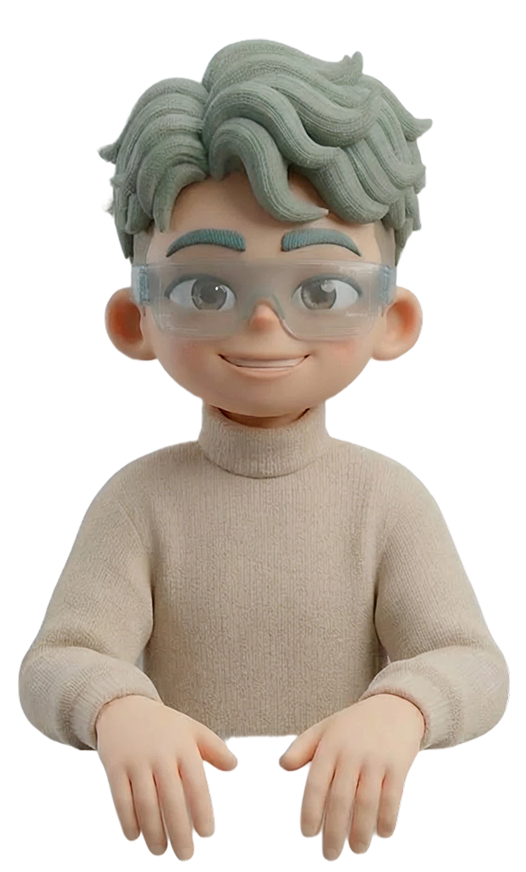
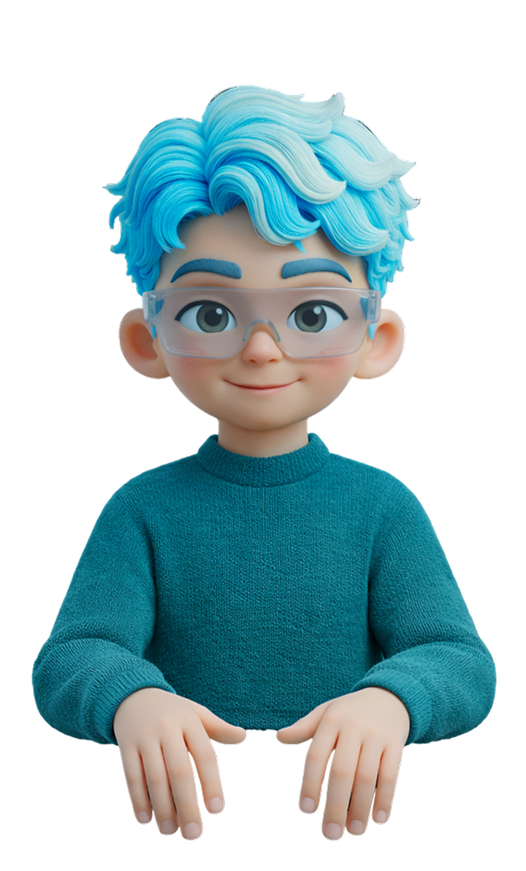
feat(landing): add mascot image to hero section
- Import and display mascot-composer.png above the prompt input area
- Adjust spacing for the subtitle and suggestion chips to accommodate the new image

diff --git a/apps/web/src/components/landing/LandingPage.tsx b/apps/web/src/components/landing/LandingPage.tsx
@@ -7,6 +7,7 @@ import featureSlide3 from '../../assets/Slide3.png';
 import featureSlide4 from '../../assets/Slide4.png';
 import videodemoimg from '../../assets/videodemoimg.png';
 import appLogo from '../../assets/Ui-logo.png';
+import mascotComposer from '../../assets/mascot-composer.png';
 import eazyuiWordmark from '../../assets/eazyui-text-edit.png';
 import eazyuiWordmarkLight from '../../assets/eazyui-text-edit-light.png';
 import { apiClient } from '../../api/client';
@@ -866,9 +867,15 @@ export function LandingPage({ onStart, onNavigate, userProfile, onSignOut, onSen
                                 />
                             </span>
                         </h1>
-                        <p className="mt-2 text-[20px] md:text-[30px] text-[var(--ui-text-muted)]">Generate production-ready app screens and landing pages from a single prompt.</p>
+                        <p className="mt-2 mb-12 text-[20px] md:text-[30px] text-[var(--ui-text-muted)]">Generate production-ready app screens and landing pages from a single prompt.</p>
 
                         <div className="relative mx-auto mt-7 w-full max-w-[780px] rounded-[22px] border border-[color:color-mix(in_srgb,var(--ui-primary)_24%,var(--ui-border))] bg-[color:color-mix(in_srgb,var(--ui-primary)_3%,var(--ui-surface-1))] p-3 shadow-[0_20px_65px_color-mix(in_srgb,var(--ui-primary)_10%,transparent)] md:p-4 text-left">
+                            <img
+                                src={mascotComposer}
+                                alt=""
+                                aria-hidden="true"
+                                className="pointer-events-none absolute right-1 top-[-6.5rem] z-10 w-[4.7rem] select-none sm:right-3 sm:top-[-8.2rem] sm:w-[5.8rem] md:right-5 md:top-[-8.4rem] md:w-[6rem]"
+                            />
                             <div className="relative">
                                 {!prompt.trim() && !isPromptFocused && (
                                     <div className="pointer-events-none absolute left-12 top-1 right-2 text-[16px] text-[var(--ui-text-subtle)] text-left">
@@ -1120,7 +1127,7 @@ export function LandingPage({ onStart, onNavigate, userProfile, onSignOut, onSen
                     </div>
                     </div>
 
-                    <div className="relative z-10 mt-5 flex flex-wrap items-center justify-center gap-2 text-[var(--ui-text-subtle)]">
+                    <div className="relative z-10 -mt-5 flex flex-wrap items-center justify-center gap-2 text-[var(--ui-text-subtle)]">
                         {APP_SUGGESTIONS.map((chip) => (
                             <button
                                 key={chip}
